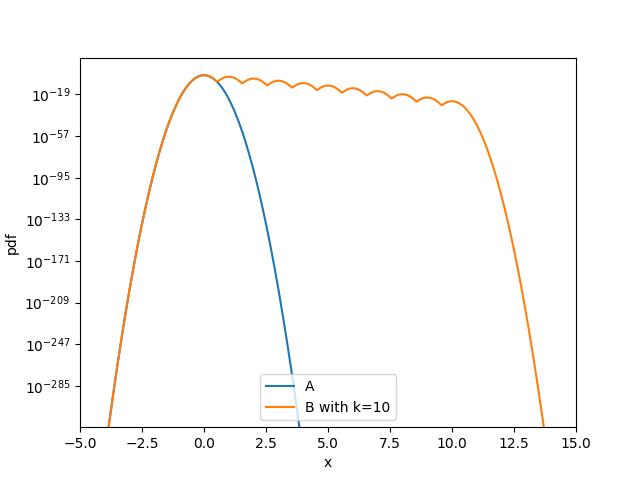
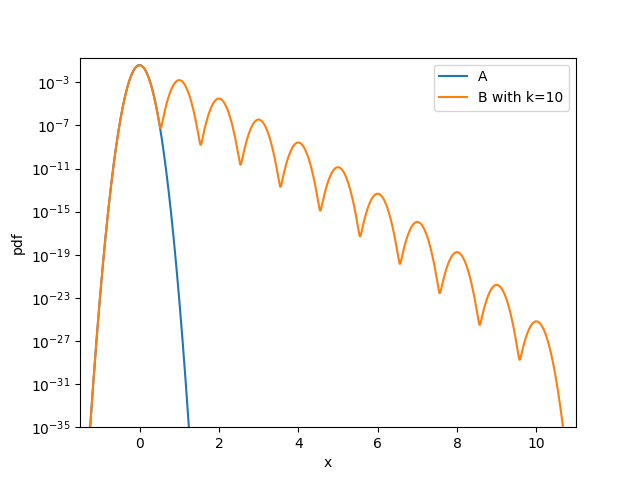
improved plot

diff --git a/group-privacy-in-deep-learning-with-differential-privacy/plots.py b/group-privacy-in-deep-learning-with-differential-privacy/plots.py
@@ -124,7 +124,8 @@ if True:
     plt.semilogy(x, B, label=f"B with k={da_k}")
     plt.ylabel("pdf")
     plt.xlabel("x")
-    plt.xlim(-5, 15)
+    plt.xlim(-1.5, 11)
+    plt.ylim(1e-35, 2e-1)
     plt.legend()
     plt.show()
 
@@ -161,6 +162,7 @@ if True:
     plt.ylabel("eps")
     plt.ylim(0, 60)
     plt.legend()
+
     plt.show()
 
 
